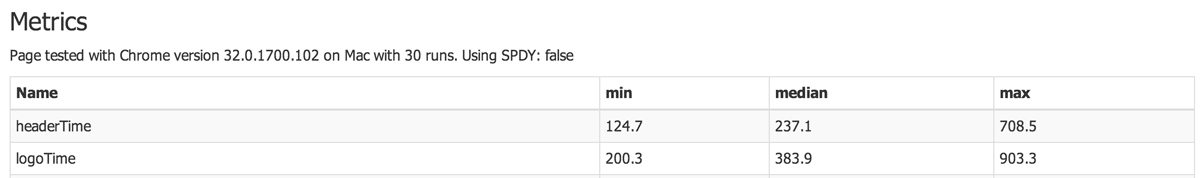
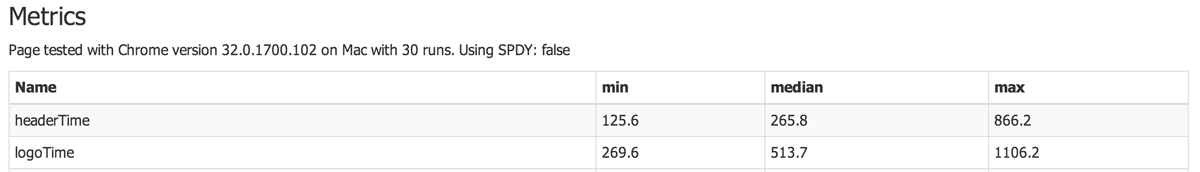
user timings

diff --git a/documentation/index.html b/documentation/index.html
@@ -919,11 +919,11 @@ OPTIONS:
  <h2>Collect User Timing data</h2>
 </div>
 <p>As an extra bonus, custom measurements using the <a href="http://www.w3.org/TR/user-timing/">User Timing API</a> are fetched. That is really cool, because you can setup your own marks & measurement and measure how long time it takes to load specific parts of a page.</p>
-<p>Patrick Meenan have write a great blog <a href="http://blog.patrickmeenan.com/2013/07/measuring-performance-of-user-experience.html" >post</a> how this is used on WebPageTest, read that and the <a href="http://www.html5rocks.com/en/tutorials/webperformance/usertiming/">post</a> by Alex Danilo on HTML5Rocks.
+<p>Patrick Meenan wrote a great blog <a href="http://blog.patrickmeenan.com/2013/07/measuring-performance-of-user-experience.html" >post</a> how this is used on WebPageTest, read that and the <a href="http://www.html5rocks.com/en/tutorials/webperformance/usertiming/">post</a> by Alex Danilo on HTML5Rocks.
   That's a great start.</p>
-<p>If you want to test it out, you can run sitespeed and access this documentation site:</p>
+<p>If you want to test it out, you can run sitespeed and access this documentation site (it uses the example <a href="https://gist.github.com/pmeenan/5902672#file-user-timing-rum-js">user-timing.js</a> by Patrick Meenan):</p>
 <pre class="bash">bin/sitespeed.io -u http://www.sitespeed.io -d 0 -c chrome</pre>
-<p>When it is finished, go to the result page. The individual page will automatically pick up the User Timings you have created (click on the Page Metrics link). You will see two new values there <em>headerTime</em> and <em>logoTime</em>.
+<p>When it is finished, go to the result page. The individual page will automatically pick up the User Timings you have created (click on the <em>Page Metrics</em> link). You will see two new values there <em>headerTime</em> and <em>logoTime</em>.
   The header measurement is fired when the header content is ready and the logo is when the big logo onload is fired.
  </p>
 <p class="text-center">
@@ -932,7 +932,11 @@ OPTIONS:
 
 
  <p>If you name your measurement so they end with <strong>Time</strong> it will automatically be picked up in the <em>summary.xml</em>, meaning you can show it on the summary page by passing the name using the <em>-b</em> parameter:</p>
- <pre class="bash">bin/sitespeed.io -u http://www.sitespeed.io -d 0 -c chrome -b logoTime,headerTime</pre>
+ <pre class="bash">bin/sitespeed.io -u http://www.sitespeed.io -d 0 -c chrome -b logoTime,headerTime -z 30</pre>
+ <p>And it will look something like this:</p>
+<p class="text-center">
+        <img src="userTimingSummary.png" alt="example of user timing values on the summary page" class="img-thumbnail img-responsive"/>
+ </p>
 </div>
 
 <div class="section" id="summaryxml">
